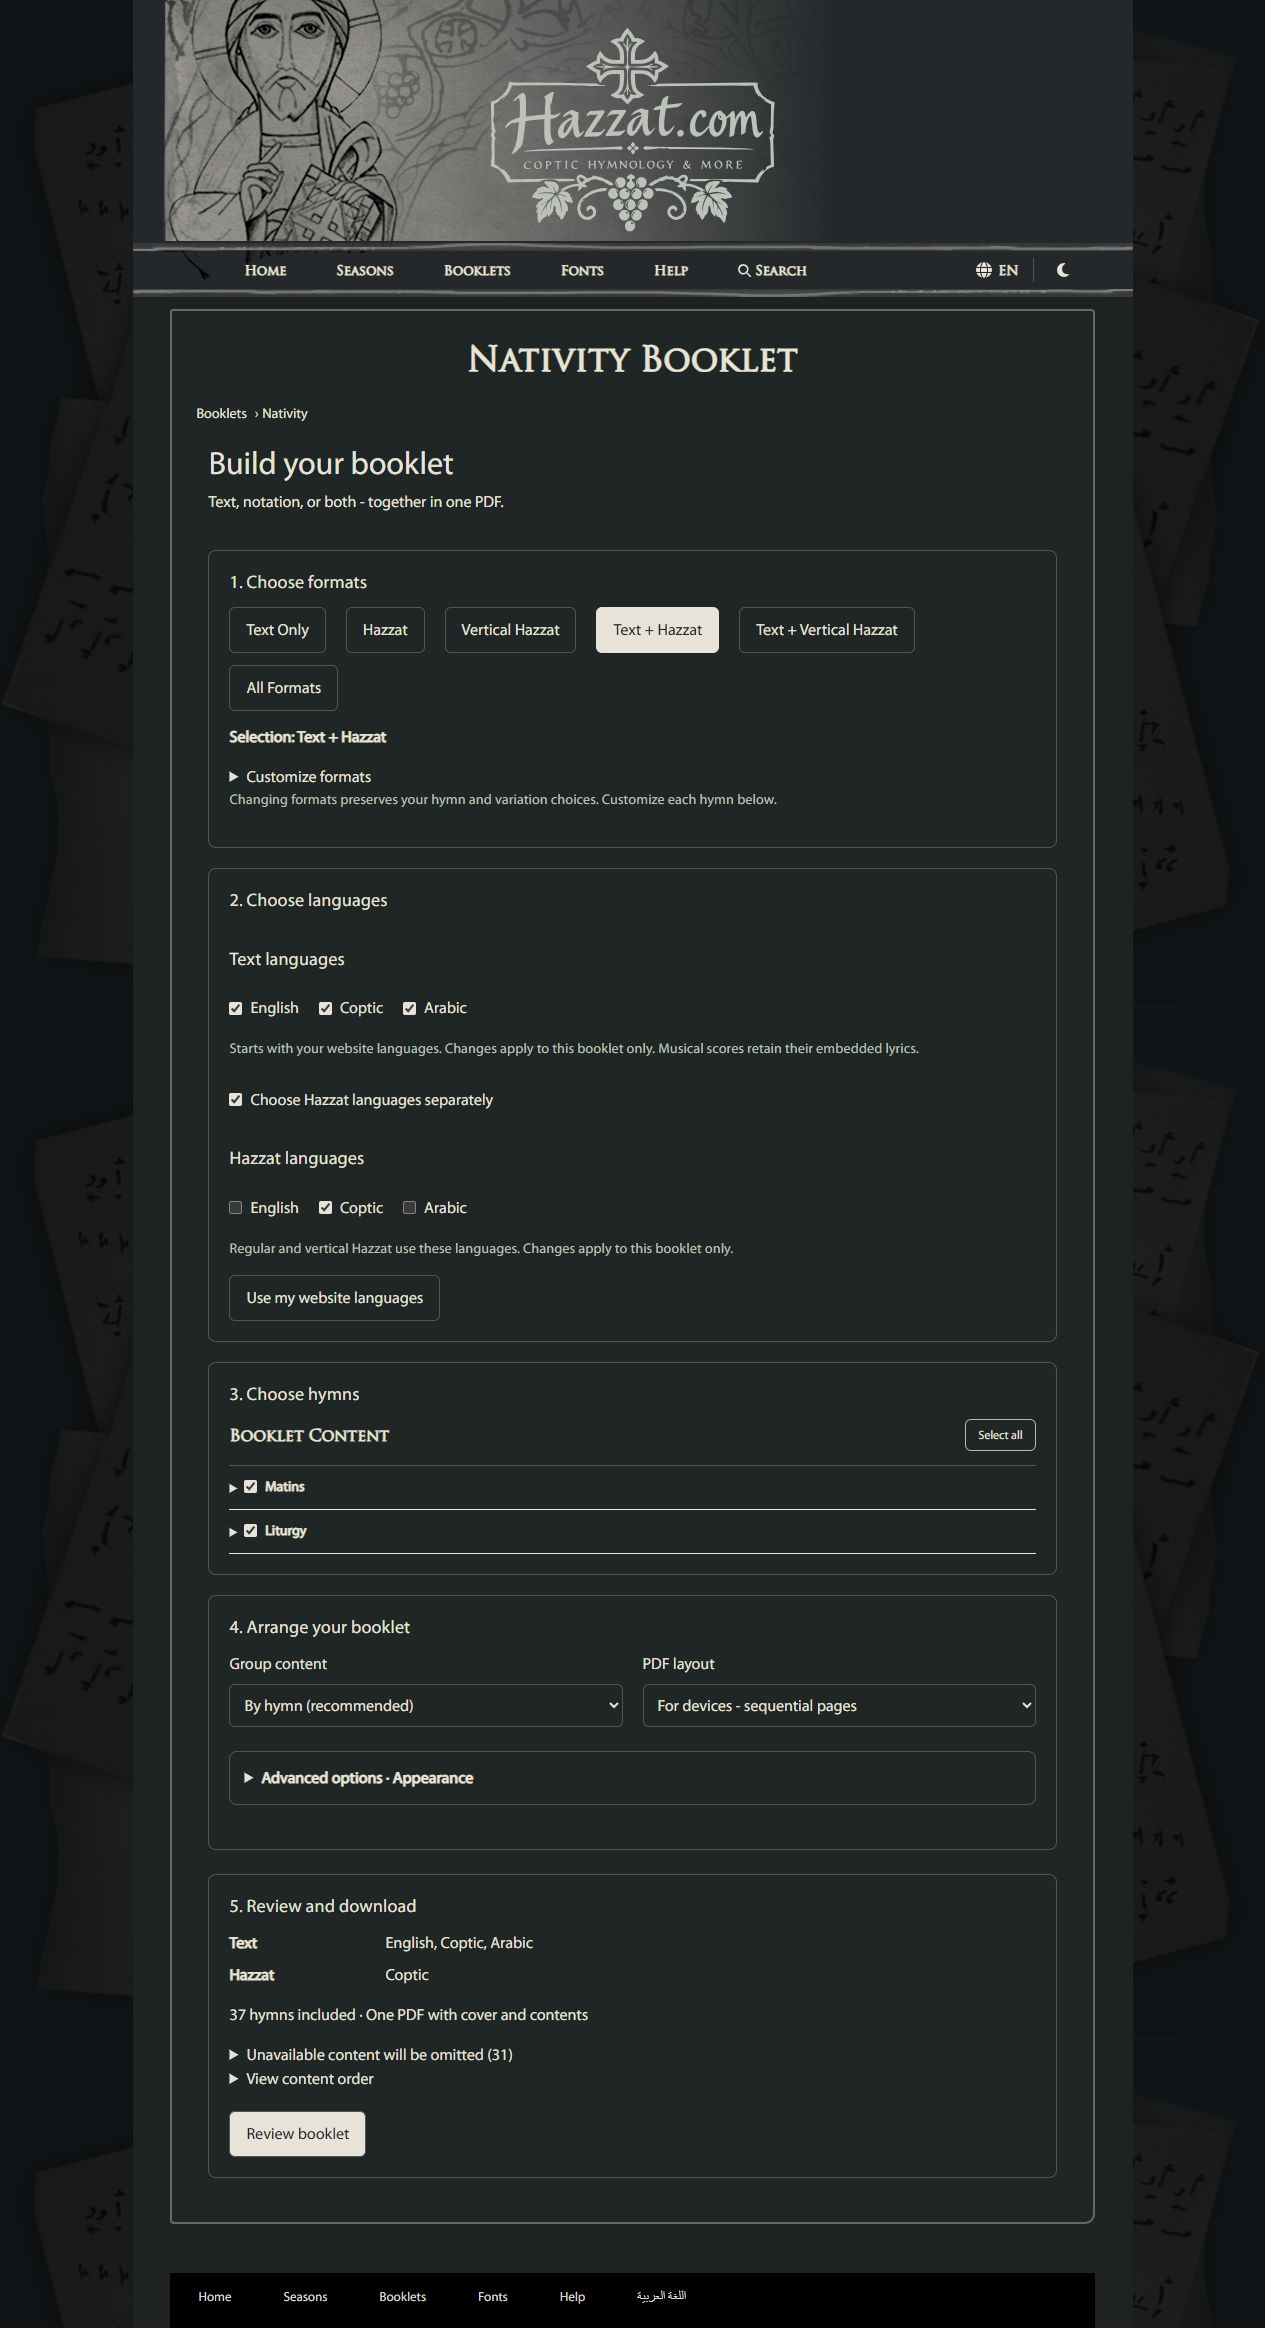
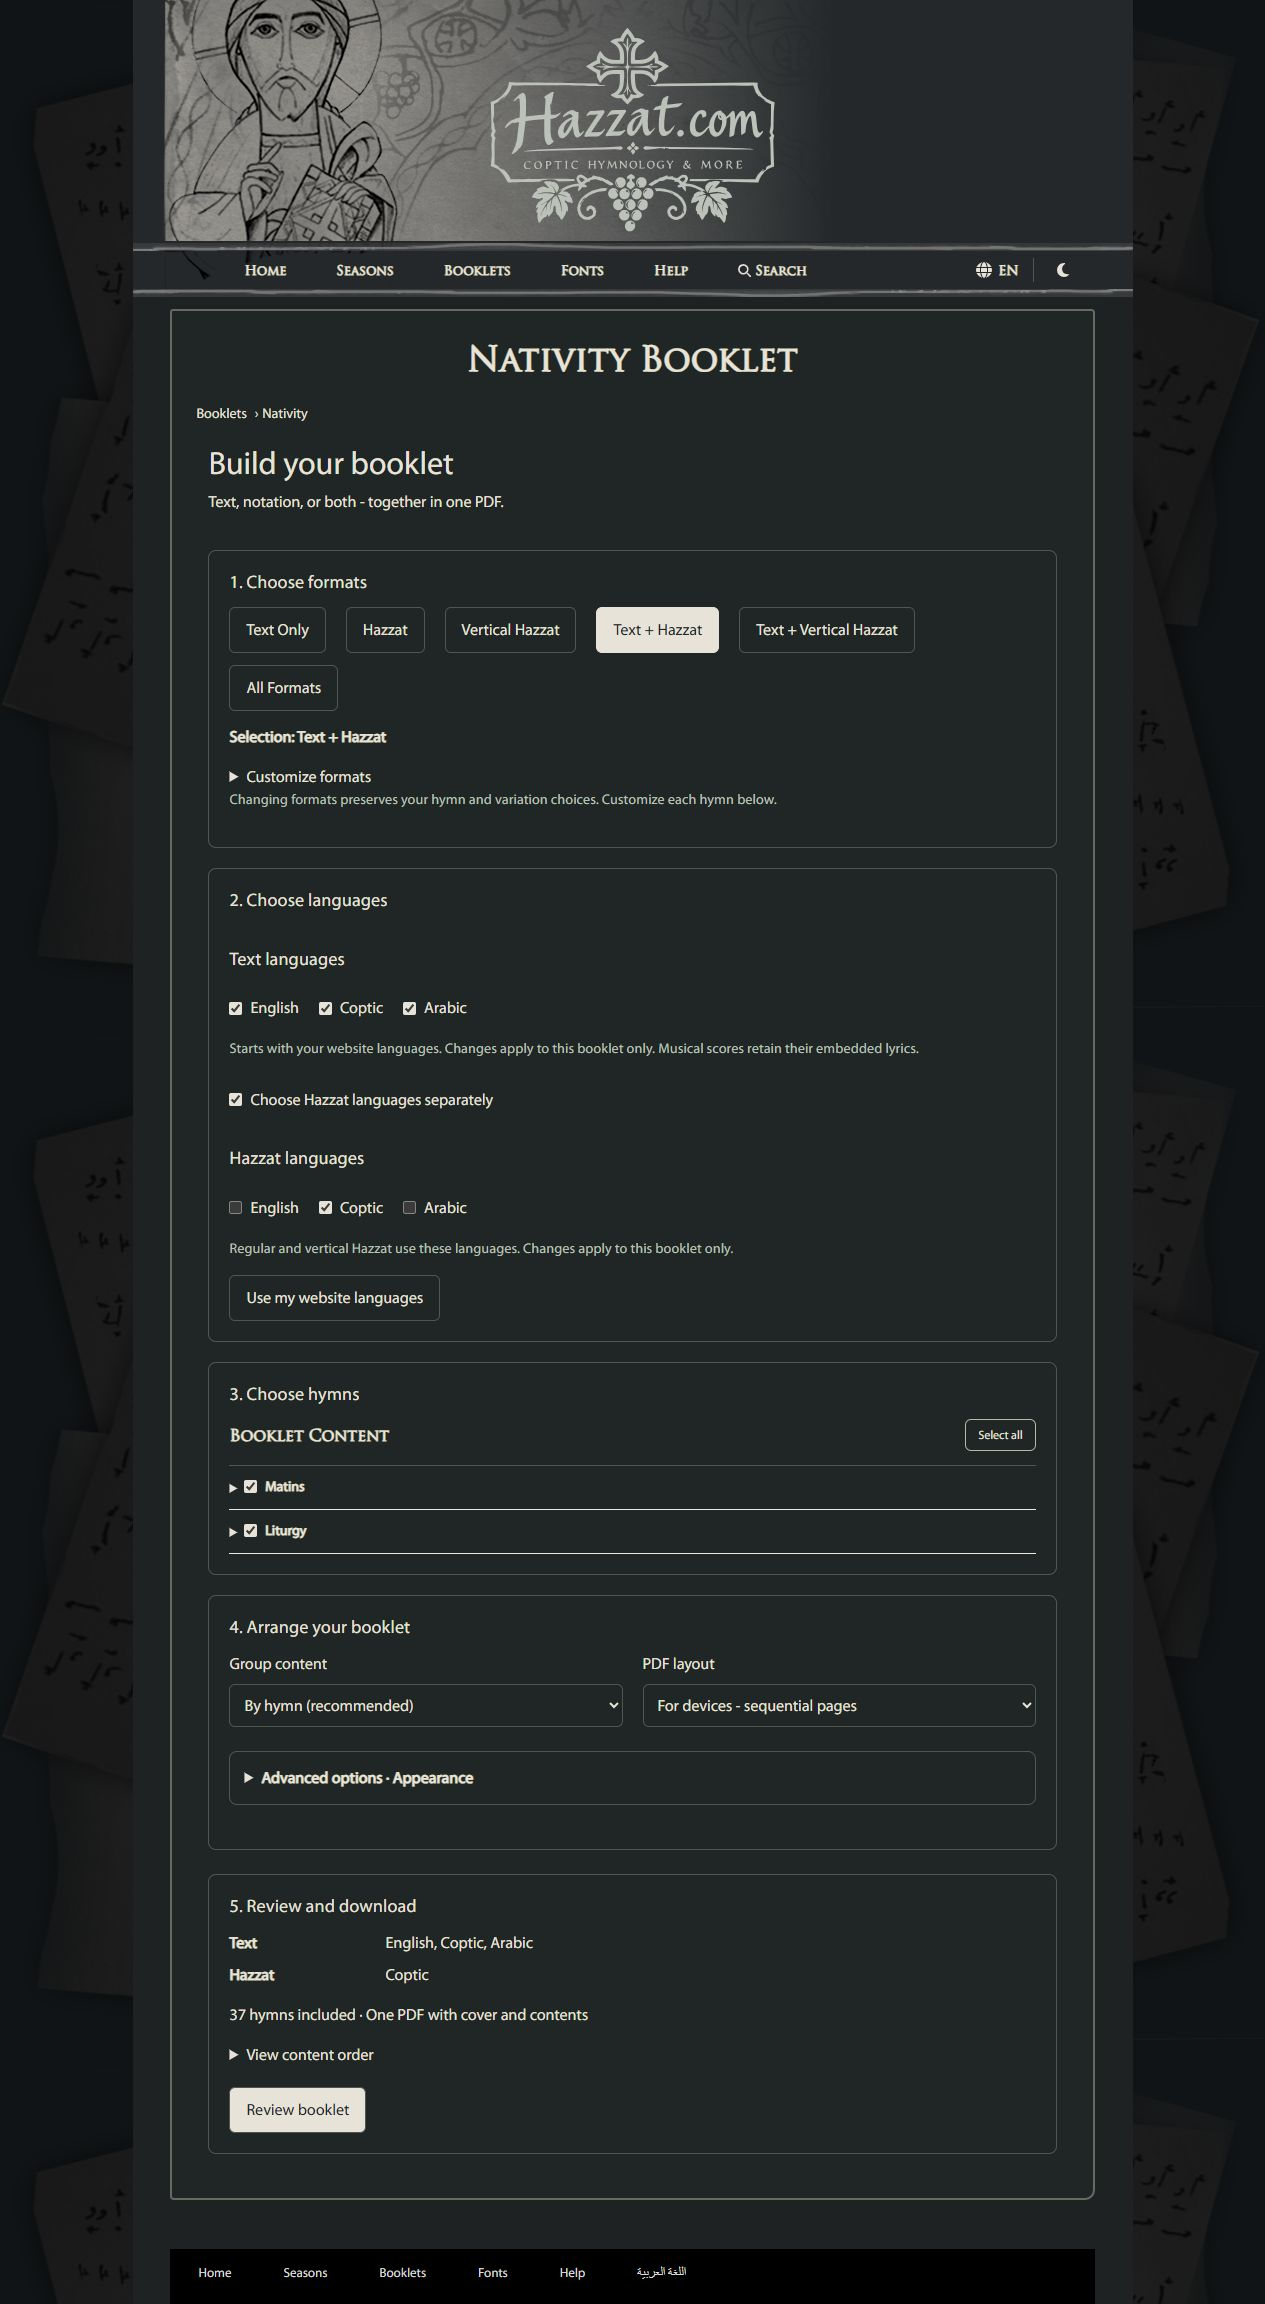
Remove booklet review omission warning and refresh screenshots

diff --git a/src/Components/BookletDetails.test.tsx b/src/Components/BookletDetails.test.tsx
@@ -91,9 +91,7 @@ describe("booklet builder", () => {
         expect(lines).toHaveLength(2);
         expect(lines[0]).toHaveTextContent("TextEnglish, Coptic");
         expect(lines[1]).toHaveTextContent("HazzatCoptic");
-        const missing = screen.getByText(/Unavailable content will be omitted/).closest("details")!;
-        expect(missing).toHaveTextContent("Text words: Coptic");
-        expect(missing).not.toHaveTextContent("Notation");
+        expect(screen.queryByText(/Unavailable content will be omitted/)).not.toBeInTheDocument();
         fireEvent.click(screen.getByRole("button", { name: "Review booklet" }));
         await screen.findByRole("link", { name: "Download PDF" });
         const options = generator.mock.calls[0][0];
@@ -112,6 +110,28 @@ describe("booklet builder", () => {
         confirm.mockReturnValue(true);
         fireEvent.click(screen.getByLabelText("Choose Hazzat languages separately"));
         expect(screen.queryByRole("group", { name: "Hazzat languages" })).not.toBeInTheDocument();
+    });
+
+    it.each([false, true])("copies website languages to the booklet without changing separate mode or saved preferences (separate: %s)", async separate => {
+        const settings = { userSettings: { contentFontColor: "NAVY", hazzatFontColor: "MAROON", englishFontSize: "18px", arabicFontSize: "22px", contentLanguages: [ContentLanguage.English] },
+            setContentFontColor: jest.fn(), setHazzatFontColor: jest.fn(), setContentFontSize: jest.fn(), setContentLanguages: jest.fn() };
+        await openBuilder(settings);
+        fireEvent.click(within(screen.getByRole("group", { name: "Content languages", exact: true })).getByLabelText("Coptic"));
+        if (separate) {
+            fireEvent.click(screen.getByLabelText("Choose Hazzat languages separately"));
+            fireEvent.click(within(screen.getByRole("group", { name: "Hazzat languages", exact: true })).getByLabelText("English"));
+        }
+        fireEvent.click(screen.getByRole("button", { name: "Use my website languages", exact: true }));
+        const groups = separate ? ["Text languages", "Hazzat languages"] : ["Content languages"];
+        groups.forEach(name => {
+            const choices = within(screen.getByRole("group", { name, exact: true }));
+            expect(choices.getByLabelText("English")).toBeChecked();
+            expect(choices.getByLabelText("Coptic")).not.toBeChecked();
+            expect(choices.getByLabelText("Arabic")).not.toBeChecked();
+        });
+        expect((screen.getByLabelText("Choose Hazzat languages separately") as HTMLInputElement).checked).toBe(separate);
+        expect(settings.setContentLanguages).not.toHaveBeenCalled();
+        expect(settings.userSettings.contentLanguages).toEqual([ContentLanguage.English]);
     });
 
     it("warns before resetting hymn choices and preserves excluded hymns across presets", async () => {

diff --git a/src/Components/BookletDetails.tsx b/src/Components/BookletDetails.tsx
@@ -72,18 +72,6 @@ function BookletDetails() {
         getSelectableVariations(hymn).map(variation => variationKey(service, hymn, variation)))).sort()), [selectedServices]);
     const requestedFormats = bookletFormatKinds.filter(kind => formats.includes(kind) ||
         Object.values(selection.formats || {}).some(kinds => kinds.includes(kind)));
-    const unavailableContent = allServices.flatMap(service => (service.hymns || []).filter(hymn => isHymnSelected(selection, service, hymn)).flatMap(hymn =>
-        (selection.formats?.[hymnKey(service, hymn)] ?? formats).flatMap(kind => {
-            const variations = getSelectableVariations(hymn).filter(variation => formatKindFromId(variation.formatId) === kind && isVariationSelected(selection, service, hymn, variation));
-            const prefix = `${service.displayName || service.name} / ${hymn.displayName || hymn.name} (${getFormatName(kind)})`;
-            if (!getSelectableVariations(hymn).some(variation => formatKindFromId(variation.formatId) === kind)) return [prefix];
-            if (kind === "musical") return [];
-            const included = kind === "text" ? languages : effectiveHazzatLanguages;
-            return variations.flatMap(variation => {
-                const missing = included.filter(language => !hasBookletVariationContent({ ...variation, content: filterContentLanguages(variation.content, [language]) }, kind));
-                return missing.length || !included.length ? [`${prefix} / ${getVariationDisplayName(variation)}: ${missing.map(languageName).join(", ") || strings.bookletNoLanguages}`] : [];
-            });
-        })));
 
     useEffect(() => {
         setPreview(undefined);
@@ -326,10 +314,6 @@ function BookletDetails() {
                         <div key={kind}><dt>{getFormatName(kind)}</dt><dd>{kind === "musical" ? strings.bookletScoresAsPublished :
                             (kind === "text" ? languages : effectiveHazzatLanguages).map(languageName).join(", ") || strings.bookletNoLanguages}</dd></div>)}</dl>
                     <p aria-live="polite">{selectedServices.reduce((sum, service) => sum + (service.hymns?.length || 0), 0)} {strings.bookletHymnsSelected} · {strings.bookletOnePdf}</p>
-                    {!!unavailableContent.length && <details className="bookletUnavailableReview">
-                        <summary>{strings.bookletUnavailableReview} ({unavailableContent.length})</summary>
-                        <ul>{unavailableContent.map((item, index) => <li key={index}>{item}</li>)}</ul>
-                    </details>}
                     <details><summary>{strings.bookletContentOrder}</summary>
                         <ol>{sections.map((section, i) => <li key={i}>{section.service.displayName || section.service.name} / {section.hymn.displayName || section.hymn.name} · {getFormatName(section.formatKind)}</li>)}</ol>
                     </details>

diff --git a/src/l8n.ts b/src/l8n.ts
@@ -42,7 +42,6 @@ export const strings = new LocalizedStrings({
         bookletScoresAsPublished: "As published (embedded lyrics)",
         bookletNoLanguages: "No languages selected",
         bookletUnavailableLanguages: "Unavailable: {0}",
-        bookletUnavailableReview: "Unavailable content will be omitted",
         bookletLanguagesHint: "Starts with your website languages. Changes apply to this booklet only. Musical scores retain their embedded lyrics.",
         bookletUseWebsiteLanguages: "Use my website languages",
         noSelectedLanguageContent: "No content is available in your selected languages. Change the content languages in Settings to see more.",
@@ -364,7 +363,6 @@ export const strings = new LocalizedStrings({
         bookletScoresAsPublished: "كما نُشرت (الكلمات المضمّنة)",
         bookletNoLanguages: "لم يتم اختيار لغات",
         bookletUnavailableLanguages: "غير متاح: {0}",
-        bookletUnavailableReview: "سيتم حذف المحتوى غير المتاح",
         bookletLanguagesHint: "تبدأ بلغات الموقع المفضّلة لديك. تنطبق التغييرات على هذا الكتيّب فقط. تحتفظ النوتة الموسيقية بالكلمات المضمّنة فيها.",
         bookletUseWebsiteLanguages: "استخدم لغاتي في الموقع",
         noSelectedLanguageContent: "لا يتوفر محتوى باللغات المحددة. غيّر لغات المحتوى في الإعدادات لعرض المزيد.",
